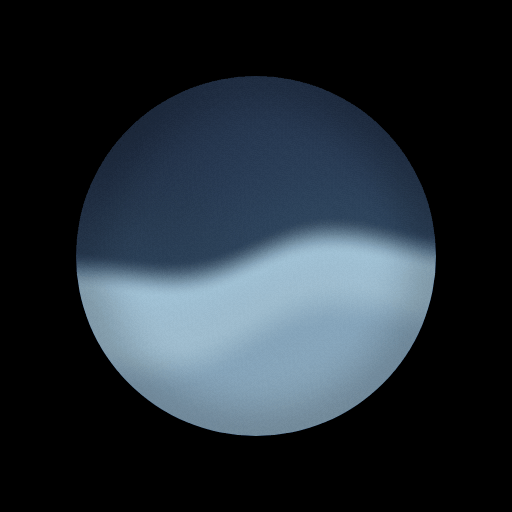
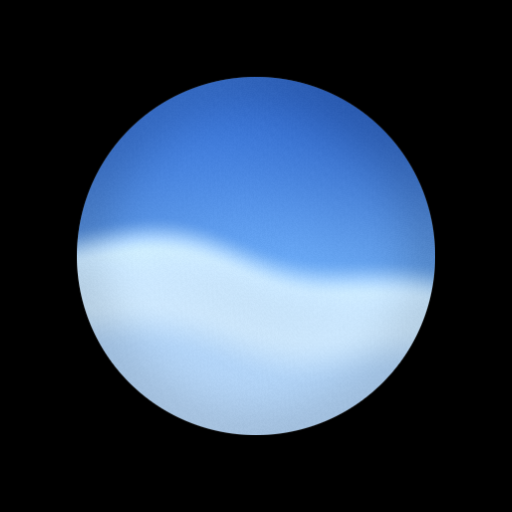
Settings: a device not connected says how to connect it; the guide caught up
In Settings › Devices, a device not connected is a row to tap for how to
connect it, as the bar at the top says. The connecting help points to the
app's Connect Piano… and Audio MIDI Setup as they are now, and no longer
speaks of the bar going away. The guide drops the Transcribed tag for a
piece's Source, says uploads go into Uploaded, and answers why an iPad takes
a second. The icon is the orb as it looks now.

Claude-Session: https://claude.ai/code/session_017Xh664jNDBC6vd22diPzXG

diff --git a/src/pianasoul/web/strings.js b/src/pianasoul/web/strings.js
@@ -42,11 +42,11 @@ const zh = {
   pairedAnewTitle: '需要重新配对', pairedAnew: '这台 Mac 重置了配对，请扫 Mac 上的新二维码。',
   notPairedTitle: '还没有配对', notPaired: '请用手机相机扫 Mac 上 PianaSoul 的二维码打开。',
   connectHow: {
-    usb: '确认琴开着，USB 线两头都插好。连上以后，这条提示会自己消失。',
-    bluetooth: '确认琴开着、蓝牙 MIDI 打开，再在 Mac 上连接：PianaSoul 设置 › 钢琴 › 连接蓝牙 MIDI…，或者“音频 MIDI 设置” › 窗口 › 显示 MIDI 工作室 › 蓝牙。连上以后，这条提示会自己消失。',
-    network: '在 iPad 上打开发声的 App，再在 Mac 上重新连接：“音频 MIDI 设置” › 窗口 › 显示 MIDI 网络设置，在“目录”里选中 iPad，点“连接”。iPad 断开以后，Mac 有时要将近一分钟才发现。',
-    virtual: '在 Mac 上打开发声的 App。打开以后，这条提示会自己消失。',
-    other: '确认琴开着、和 Mac 连好；也可以在 Mac 的 PianaSoul 设置 › 钢琴 里换一台琴。',
+    usb: '确认琴开着，USB 线两头都插好。连上以后会自己恢复，不用刷新。',
+    bluetooth: '确认琴开着、蓝牙 MIDI 打开，再在 Mac 上连接：用 PianaSoul App 的话，点菜单栏的 PianaSoul › 连接琴…；也可以打开“音频 MIDI 设置” › 窗口 › 显示 MIDI 工作室，点蓝牙图标，再点琴旁边的“连接”。连上以后会自己恢复。',
+    network: '在 iPad 上打开发声的 App，再在 Mac 上连接：“音频 MIDI 设置” › 窗口 › 显示 MIDI 网络设置，在“目录”里选中 iPad，点“连接”（用 PianaSoul App 的话，菜单栏的 PianaSoul › 连接琴… 会直接打开“音频 MIDI 设置”）。iPad 断开以后，Mac 有时要将近一分钟才发现。',
+    virtual: '在 Mac 上打开发声的 App。打开以后会自己恢复。',
+    other: '确认琴开着、和 Mac 连好；也可以在 Mac 上 PianaSoul 的设置 › 钢琴里换一台琴。',
   },
   piece: '曲名', source: '来源',
   origins: {video: site => `由 ${site} 视频转谱`, recording: '由你的录音转谱', uploaded: '从手机上传', yours: '你放进曲库的文件'},
@@ -84,7 +84,8 @@ const zh = {
     ]},
     {id: 'library', icon: 'piano', title: '曲库和添加曲子', items: [
       ['找曲子', '在曲库里搜；结果下面可以上传文件，或者在线搜索钢琴版。'],
-      ['上传', '点曲库右上角的 ＋，再点“上传文件”，MIDI 和录音可以一次选好几个。在 Mac 上直接拖进“音乐 › PianaSoul”文件夹也一样。'],
+      ['上传', '点曲库右上角的 ＋，再点“上传文件”，MIDI 和录音可以一次选好几个，放进曲库的“Uploaded”文件夹。在 Mac 上直接拖进“音乐 › PianaSoul”文件夹也一样。'],
+      ['来源', '每首曲子怎么来的，写在详细信息的“来源”里：由视频或录音转谱、从手机上传，或者你放进曲库的文件。'],
       ['只有钢琴版', '只列出能转成 MIDI 的钢琴版：教程、瀑布流、简单版、合集这些都不列。'],
       ['看视频', '点封面或标题，在 YouTube 里看。'],
       ['下载', '点下载，圆圈跑满一圈就转好了，点中间的方块停止；转好后点 ▶ 就开始弹。'],
@@ -101,9 +102,10 @@ const zh = {
       ['管理', '长按对话可以置顶、重命名、删除。'],
     ]},
     {id: 'faq', icon: 'question', title: '常见问题', items: [
-      ['她说在弹，琴却没声音', '在设置的设备里看是否已连接，再看琴有没有开。'],
+      ['她说在弹，琴却没声音', '在设置的设备里看是否已连接，没连上就点它，看怎么连；再看琴有没有开。'],
       ['球没有反应', '看麦克风权限，以及 Mac 是否开着。'],
       ['拖音量条，声音没变', '发声的一端要认 MIDI 音量（CC7）。比如 Pianoteq：长按 Volume 滑块（Mac 上按住 Command 点它），再拖一下音量条；然后在 Options ▸ MIDI 里 Save as，再 Set as default。'],
+      ['用 iPad 发声时，反应慢一点', '发到 iPad 的音经 Wi‑Fi 提前一秒发出、按时弹，节奏才稳，所以暂停、停止和调音量大约一秒后才生效。'],
     ]},
   ],
   // Without her: the library, the player and adding pieces.
@@ -127,8 +129,8 @@ const zh = {
     ]},
     {id: 'library', icon: 'piano', title: '曲库和添加曲子', items: [
       ['曲库', '就是 Mac 上的“音乐 › PianaSoul”文件夹：往里放、改名、挪位置，手机上马上跟着变。'],
-      ['上传', '点曲库右上角的 ＋，再点“上传文件”，MIDI 和录音可以一次选好几个。'],
-      ['转谱', '带“转谱”标签的，是 PianaSoul 从录音转出来的 MIDI。'],
+      ['上传', '点曲库右上角的 ＋，再点“上传文件”，MIDI 和录音可以一次选好几个，放进曲库的“Uploaded”文件夹。'],
+      ['来源', '每首曲子怎么来的，写在详细信息的“来源”里：由录音转谱、从手机上传，或者你放进曲库的文件。'],
       ['录音', 'MP3 这类录音显示为“需要转谱”：在 Mac 的 PianaSoul 设置里开启高级功能（Beta）后，会自动转成 MIDI。'],
       ['找曲子', '在曲库顶上搜曲名、原作者、演奏者。'],
       ['改信息', '长按曲目，改曲名、原作者、演奏者。只改曲库里的名字，不改 Mac 上的文件名。'],
@@ -136,8 +138,9 @@ const zh = {
       ['艺术家', '可以按原作者看，也可以按演奏者看。'],
     ]},
     {id: 'faq', icon: 'question', title: '常见问题', items: [
-      ['点了曲子，琴没声音', '在设置的设备里看是否已连接，再看琴有没有开。'],
+      ['点了曲子，琴没声音', '在设置的设备里看是否已连接，没连上就点它，看怎么连；再看琴有没有开。'],
       ['拖音量条，声音没变', '发声的一端要认 MIDI 音量（CC7）。比如 Pianoteq：长按 Volume 滑块（Mac 上按住 Command 点它），再拖一下音量条；然后在 Options ▸ MIDI 里 Save as，再 Set as default。'],
+      ['用 iPad 发声时，反应慢一点', '发到 iPad 的音经 Wi‑Fi 提前一秒发出、按时弹，节奏才稳，所以暂停、停止和调音量大约一秒后才生效。'],
     ]},
   ],
 };
@@ -190,11 +193,11 @@ const en = {
   pairedAnewTitle: 'Pair Again', pairedAnew: 'This Mac has reset its pairing. Scan the new code on the Mac.',
   notPairedTitle: 'Not Paired Yet', notPaired: 'Scan the code in PianaSoul on the Mac with the phone’s camera to open it.',
   connectHow: {
-    usb: 'Check that the piano is on and the USB cable is plugged in at both ends. Once it is connected, this goes away.',
-    bluetooth: 'Check that the piano is on with Bluetooth MIDI turned on, then connect it on the Mac: PianaSoul Settings › Piano › Connect Bluetooth MIDI…, or Audio MIDI Setup › Window › Show MIDI Studio › Bluetooth. Once it is connected, this goes away.',
-    network: 'Open the app that makes the sound on the iPad, then connect it again on the Mac: Audio MIDI Setup › Window › Show MIDI Network Setup, select the iPad under Directory, and click Connect. After the iPad leaves, the Mac can take almost a minute to notice.',
-    virtual: 'Open the app that makes the sound on the Mac. Once it is open, this goes away.',
-    other: 'Check that the piano is on and connected to the Mac, or choose another in PianaSoul Settings › Piano on the Mac.',
+    usb: 'Check that the piano is on and the USB cable is plugged in at both ends. Once it is connected, this updates by itself.',
+    bluetooth: 'Check that the piano is on with Bluetooth MIDI turned on, then connect it on the Mac: with the PianaSoul app, PianaSoul in the menu bar › Connect Piano…; or Audio MIDI Setup › Window › Show MIDI Studio, click the Bluetooth icon, then Connect next to the piano. Once it is connected, this updates by itself.',
+    network: 'Open the app that makes the sound on the iPad, then connect it on the Mac: Audio MIDI Setup › Window › Show MIDI Network Setup, select the iPad under Directory, and click Connect (with the PianaSoul app, PianaSoul in the menu bar › Connect Piano… opens Audio MIDI Setup). After the iPad leaves, the Mac can take almost a minute to notice.',
+    virtual: 'Open the app that makes the sound on the Mac. Once it is open, this updates by itself.',
+    other: 'Check that the piano is on and connected to the Mac, or choose another in PianaSoul’s settings › Piano on the Mac.',
   },
   piece: 'Piece', source: 'Source',
   origins: {video: site => `Transcribed from a ${site} video`, recording: 'Transcribed from your recording', uploaded: 'Uploaded from a phone', yours: 'A file you put in the library'},
@@ -234,7 +237,8 @@ const en = {
     ]},
     {id: 'library', icon: 'piano', title: 'Library and New Pieces', items: [
       ['Finding', 'Search the library; below the results, upload files or search online for piano versions.'],
-      ['Upload', 'Tap + at the top right of the library, then Upload Files: MIDI files and recordings, several at once. Dragging them into Music › PianaSoul on the Mac does the same.'],
+      ['Upload', 'Tap + at the top right of the library, then Upload Files: MIDI files and recordings, several at once, into the library’s Uploaded folder. Dragging them into Music › PianaSoul on the Mac does the same.'],
+      ['Source', 'How each piece came is under Source in its details: transcribed from a video or a recording, uploaded from a phone, or a file you put in the library.'],
       ['Piano versions only', 'Only piano versions that make good MIDI are listed: no tutorials, falling notes, easy versions or compilations.'],
       ['Watch', 'Tap a cover or a title to watch the video on YouTube.'],
       ['Download', 'Tap download; when the circle closes it is ready, and ▶ plays it. The square in the middle stops it.'],
@@ -251,9 +255,10 @@ const en = {
       ['Manage', 'Touch and hold a conversation to pin, rename or delete it.'],
     ]},
     {id: 'faq', icon: 'question', title: 'Questions', items: [
-      ['She says she is playing, but the piano is silent', 'Check Devices in Settings, then that the piano is on.'],
+      ['She says she is playing, but the piano is silent', 'Check Devices in Settings: tap one not connected to see how to connect it. Then check that the piano is on.'],
       ['The orb does nothing', 'Check the microphone permission, and that the Mac is on.'],
       ['The volume bar changes nothing', 'What makes the sound has to follow MIDI volume (CC7). In Pianoteq, for one: touch and hold its Volume slider (on a Mac, Command-click it), then move the volume bar; then, in Options ▸ MIDI, Save as and Set as default.'],
+      ['With an iPad making the sound, things take a second', 'Notes go to the iPad over Wi‑Fi a second early, with the time each should sound, so that they sound evenly; so pausing, stopping and a change of volume take about a second.'],
     ]},
   ],
   // Without her: the library, the player and adding pieces.
@@ -278,8 +283,8 @@ const en = {
     ]},
     {id: 'library', icon: 'piano', title: 'Library and New Pieces', items: [
       ['The library', 'It is the folder Music › PianaSoul on the Mac: put files in, rename or move them, and the phone follows at once.'],
-      ['Upload', 'Tap + at the top right of the library, then Upload Files: MIDI files and recordings, several at once.'],
-      ['Transcribed', 'A piece tagged Transcribed is MIDI that PianaSoul made from a recording.'],
+      ['Upload', 'Tap + at the top right of the library, then Upload Files: MIDI files and recordings, several at once, into the library’s Uploaded folder.'],
+      ['Source', 'How each piece came is under Source in its details: transcribed from a recording, uploaded from a phone, or a file you put in the library.'],
       ['Recordings', 'An MP3 or another recording shows as Needs transcription: turn on Advanced Features (Beta) in PianaSoul’s settings on the Mac, and it is made into MIDI on its own.'],
       ['Finding', 'Search the library by piece, artist or pianist at the top.'],
       ['Edit', 'Touch and hold a piece to change its name, artist and pianist. Only its name in the library changes, not the file on the Mac.'],
@@ -287,8 +292,9 @@ const en = {
       ['Artists', 'Browse by artist or by pianist.'],
     ]},
     {id: 'faq', icon: 'question', title: 'Questions', items: [
-      ['A piece is playing, but the piano is silent', 'Check Devices in Settings, then that the piano is on.'],
+      ['A piece is playing, but the piano is silent', 'Check Devices in Settings: tap one not connected to see how to connect it. Then check that the piano is on.'],
       ['The volume bar changes nothing', 'What makes the sound has to follow MIDI volume (CC7). In Pianoteq, for one: touch and hold its Volume slider (on a Mac, Command-click it), then move the volume bar; then, in Options ▸ MIDI, Save as and Set as default.'],
+      ['With an iPad making the sound, things take a second', 'Notes go to the iPad over Wi‑Fi a second early, with the time each should sound, so that they sound evenly; so pausing, stopping and a change of volume take about a second.'],
     ]},
   ],
 };

diff --git a/src/pianasoul/web/app.js b/src/pianasoul/web/app.js
@@ -1488,11 +1488,14 @@ function renderSettings() {
   $('#commit-link').textContent = (commit || '').slice(0, 7);
 }
 // What plays the notes, as the Mac sees it: read when the settings open, and again whenever the piano changes while
-// they are open.
+// they are open. One not connected is a row to tap, for how to connect it (as the bar at the top says).
 const loadDevices = () => api('/api/devices').then(found => { data.devices = found; renderDevices(); }).catch(() => {});
 function renderDevices() {
-  $('#devices').innerHTML = data.devices.map(d =>
-    `<div class="grow">${d.kind === 'network' ? ICON.tablet : ICON.piano}<span class="gl">${esc(d.name)}</span><span class="gv${d.connected ? ' ok' : ''}">${esc(d.connected ? T.connected : T.disconnected)}</span></div>`).join('');
+  $('#devices').innerHTML = data.devices.map((d, i) => {
+    const row = `${d.kind === 'network' ? ICON.tablet : ICON.piano}<span class="gl">${esc(d.name)}</span>`;
+    return d.connected ? `<div class="grow">${row}<span class="gv ok">${esc(T.connected)}</span></div>`
+                       : `<button class="grow" data-device="${i}">${row}<span class="gv">${esc(T.disconnected)}</span>${CHEV}</button>`;
+  }).join('');
 }
 document.querySelectorAll('[data-icon]').forEach(el => { el.outerHTML = ICON[el.dataset.icon]; });
 $('#view-settings').addEventListener('click', e => {
@@ -1505,6 +1508,8 @@ $('#view-settings').addEventListener('click', e => {
       api('/api/settings', 'PATCH', {[key]: c}).catch(() => {});
     }]));
   }
+  const device = data.devices[e.target.closest('[data-device]')?.dataset.device];
+  if (device) info(T.howToConnect, T.connectHow[device.kind] || T.connectHow.other);
   if (e.target.closest('#open-help')) push('help');
 });
 const topics = () => herOn() ? T.helpTopics : T.basicTopics;
